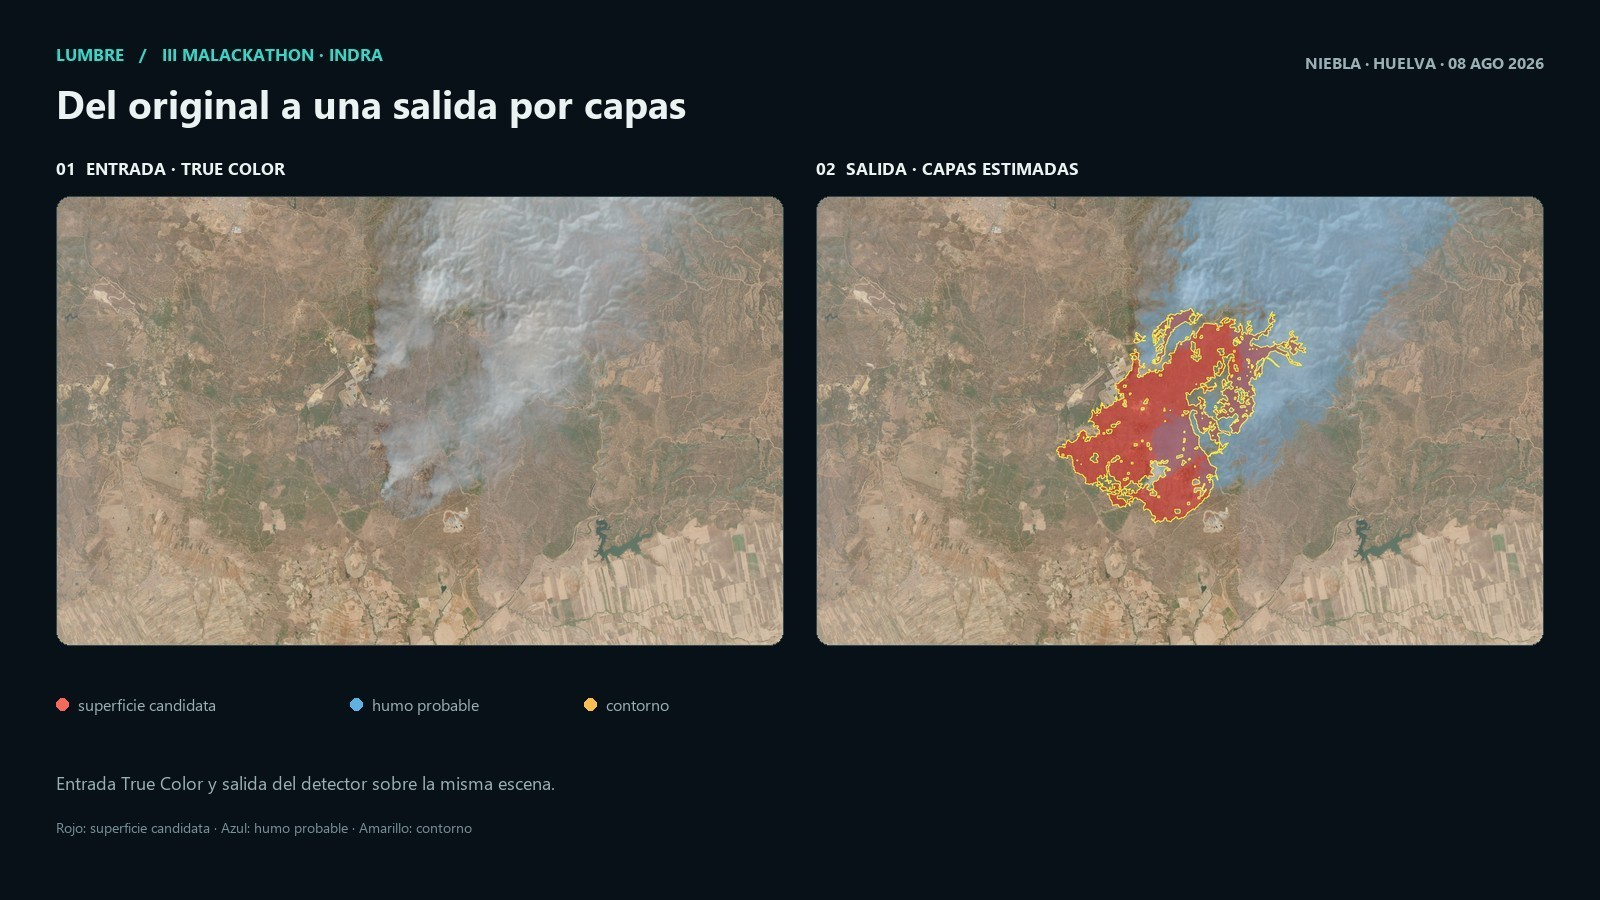
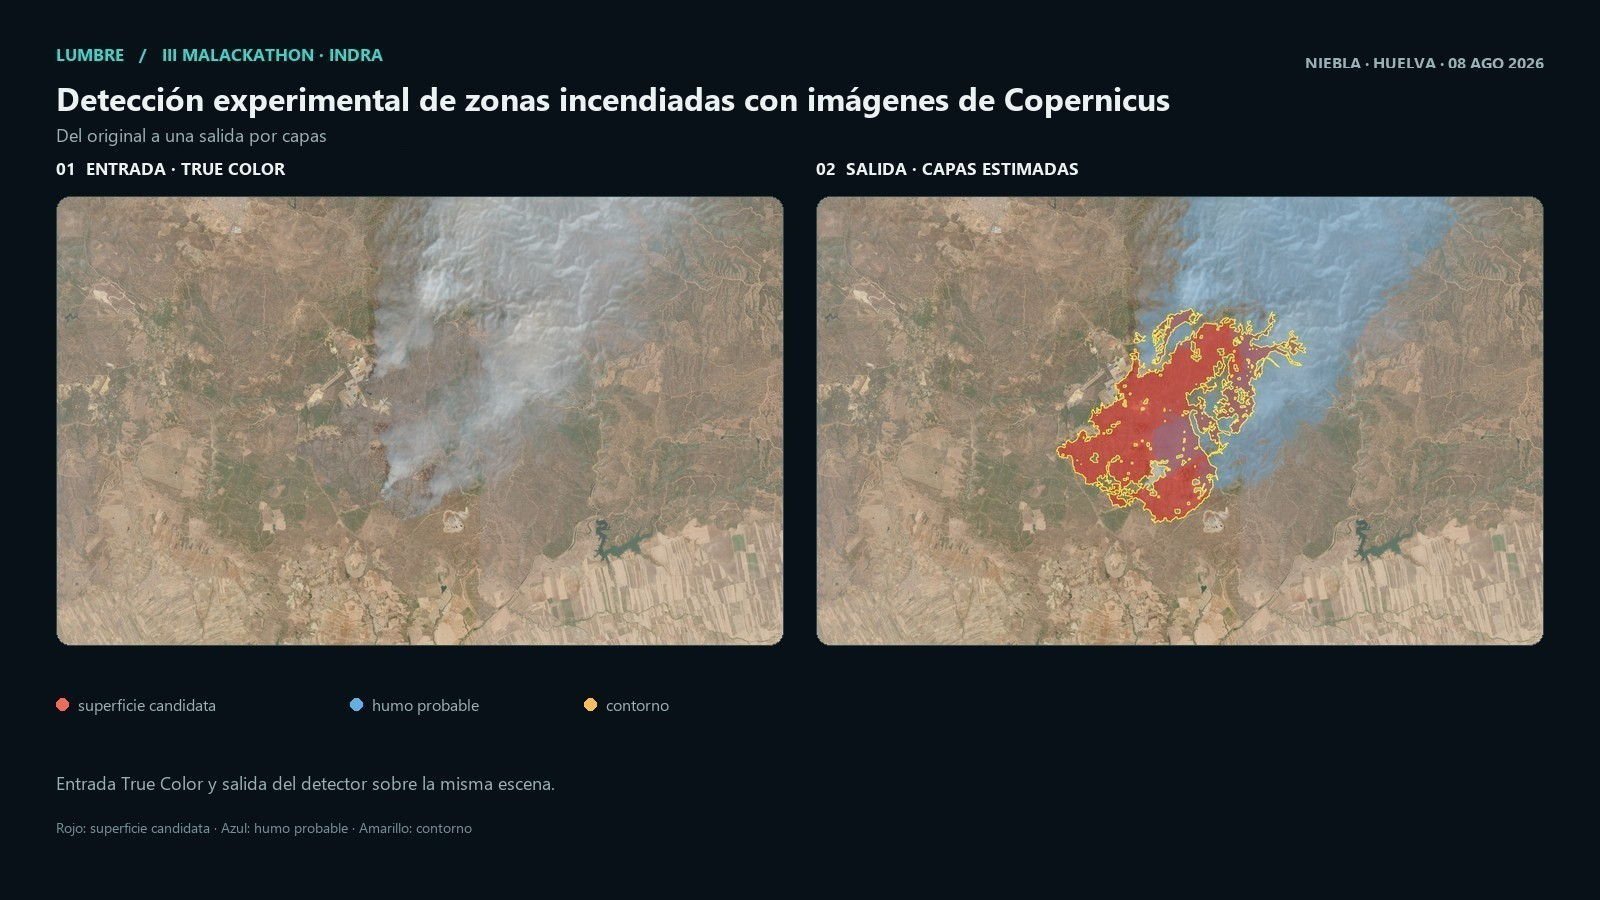
Refresh project documentation and Niebla preview

Changed region(s): [[0.0312, 0.0933, 0.75, 0.1556]]

diff --git a/README.md b/README.md
@@ -1,6 +1,6 @@
 # Lumbre · análisis satelital de incendios
 
-Prototipo local para explorar escenas satelitales con composiciones **True Color** y **SWIR**. Propone capas de superficie afectada y humo probable, permite revisar la imagen, medir, anotar y exportar un paquete con la evidencia del análisis.
+Prototipo experimental para revisar imágenes satelitales **True Color** y **SWIR** de Copernicus y localizar zonas candidatas de superficie afectada. Presenta por separado el humo probable y los candidatos bajo humo para facilitar la revisión, medición, anotación y exportación del análisis.
 
 Nació en la **III Malackathon 2026 de la Universidad de Málaga**, para el reto de Indra Espacio. Éramos cuatro estudiantes de primer curso: tres de Ciberseguridad e Inteligencia Artificial y uno de Informática. [La historia del proyecto](DOCUMENTACION/historia_del_proyecto.md) conserva cómo evolucionó el trabajo y qué quedó fuera del prototipo.
 
